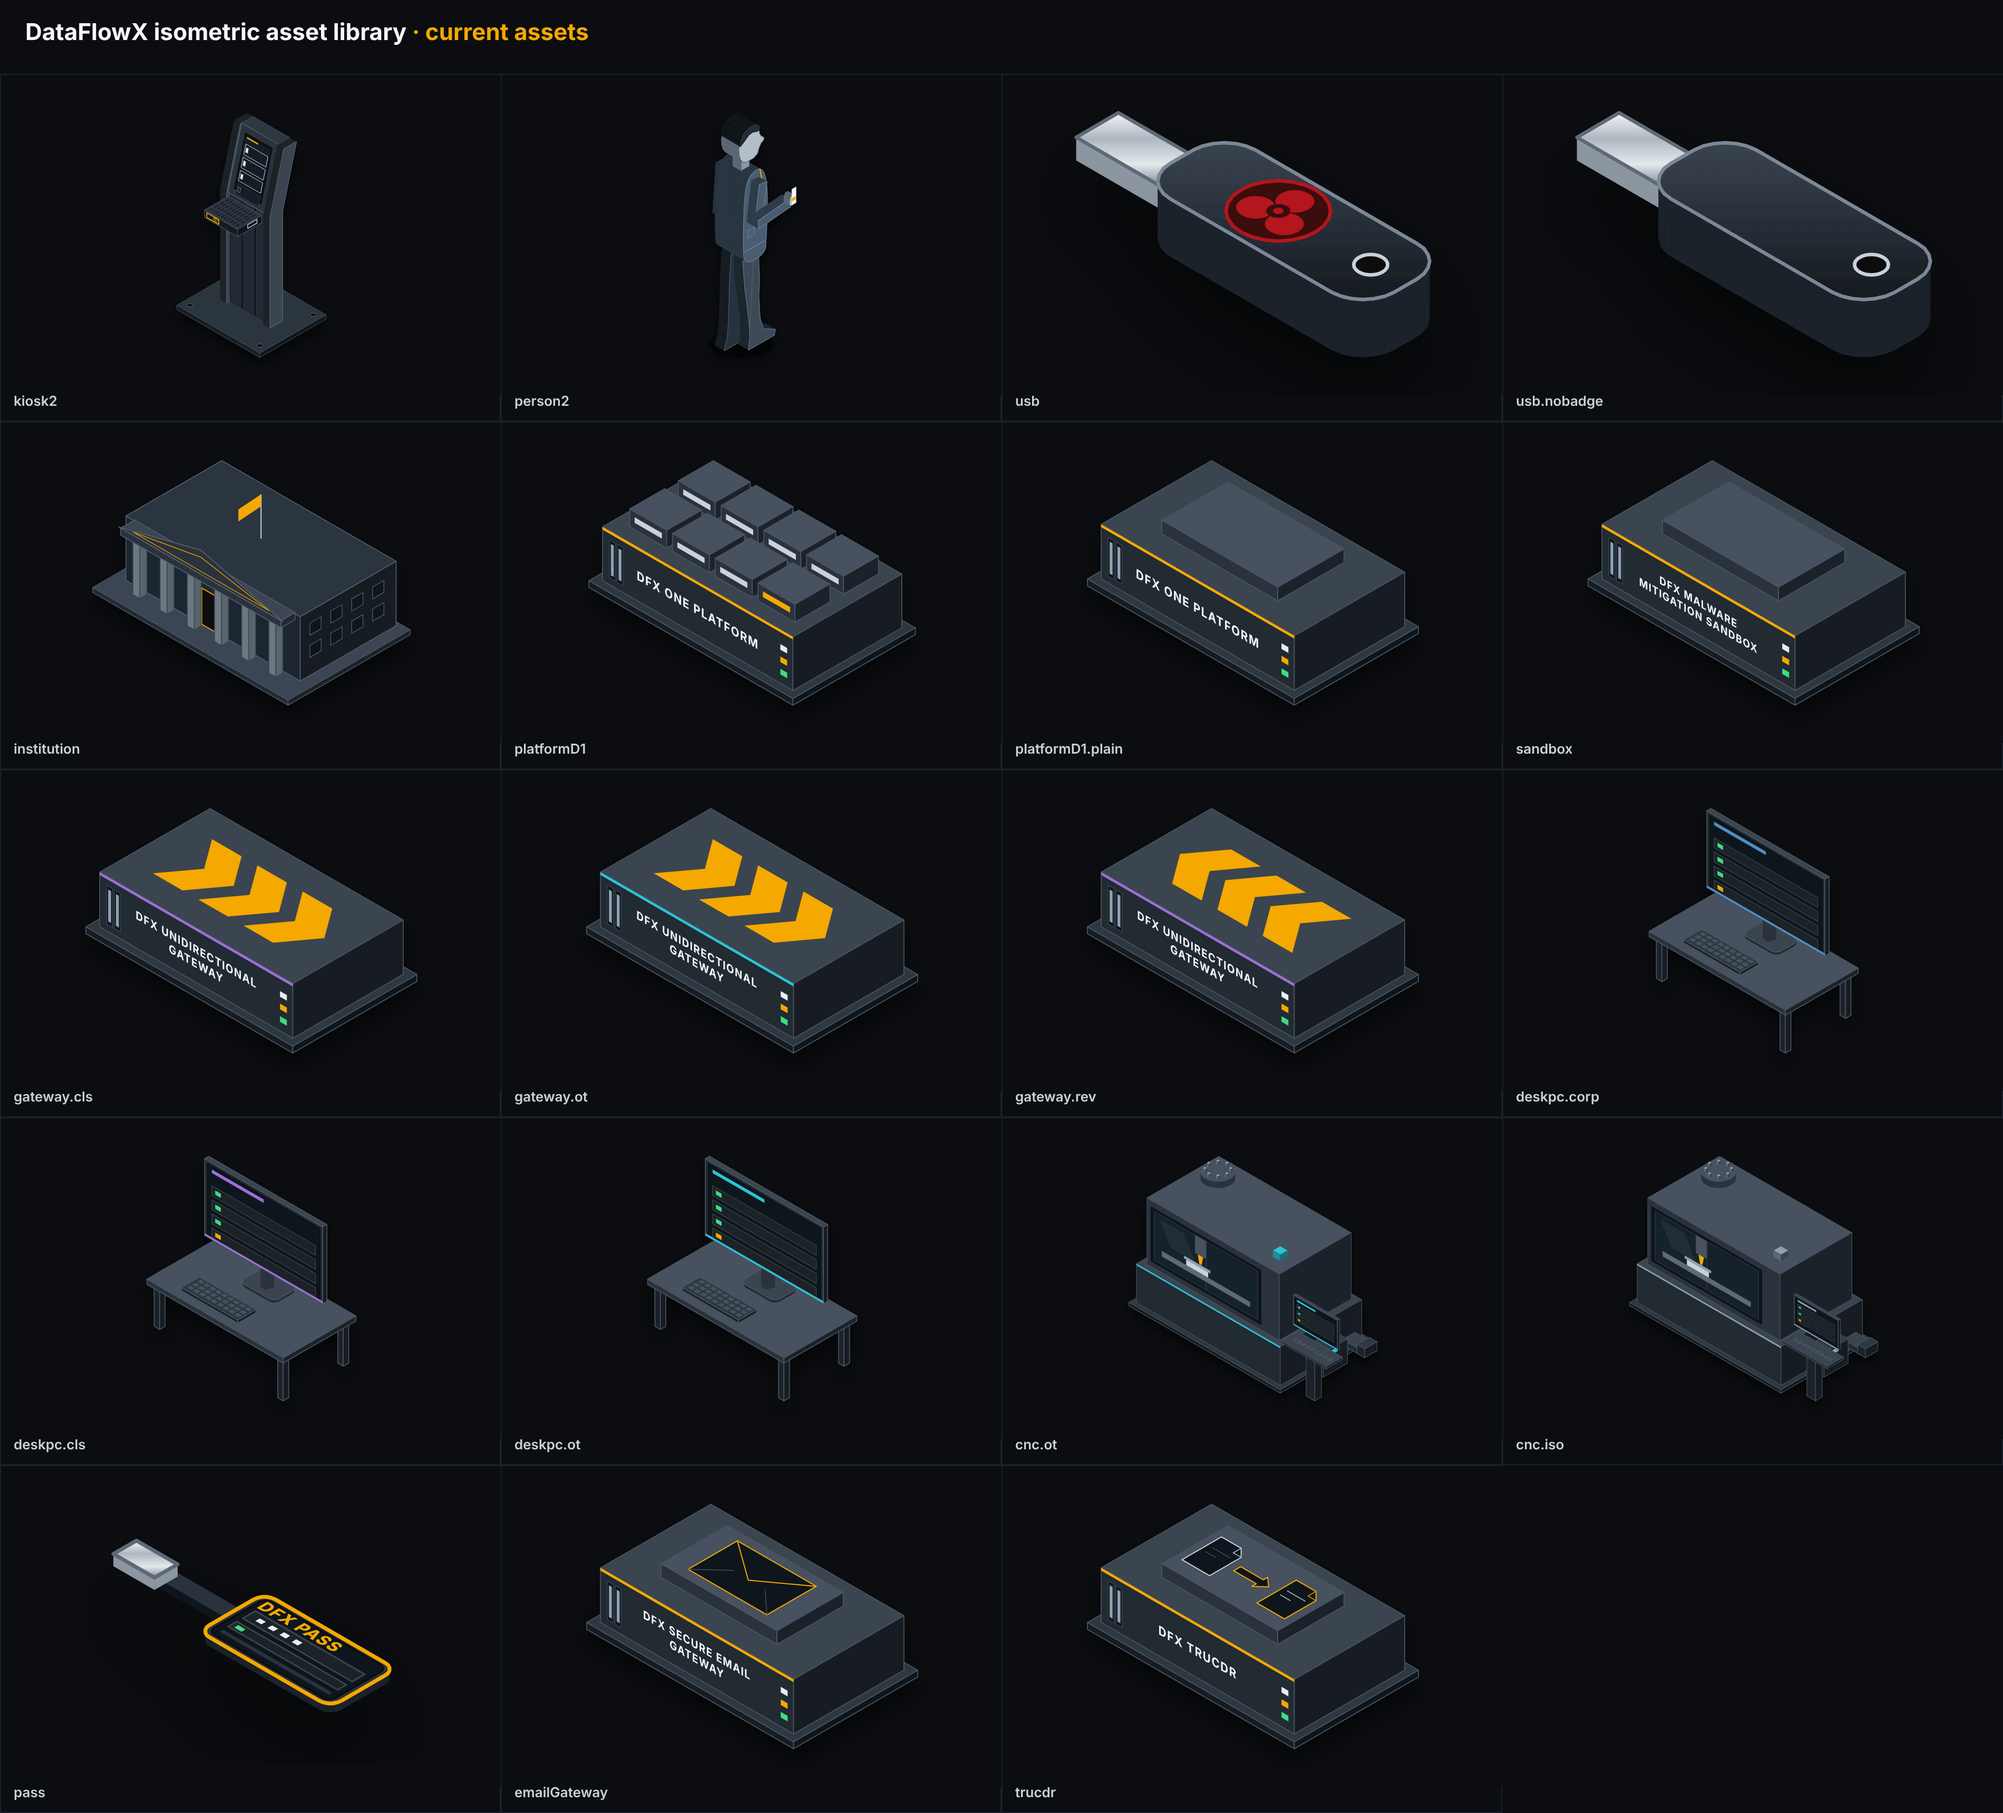
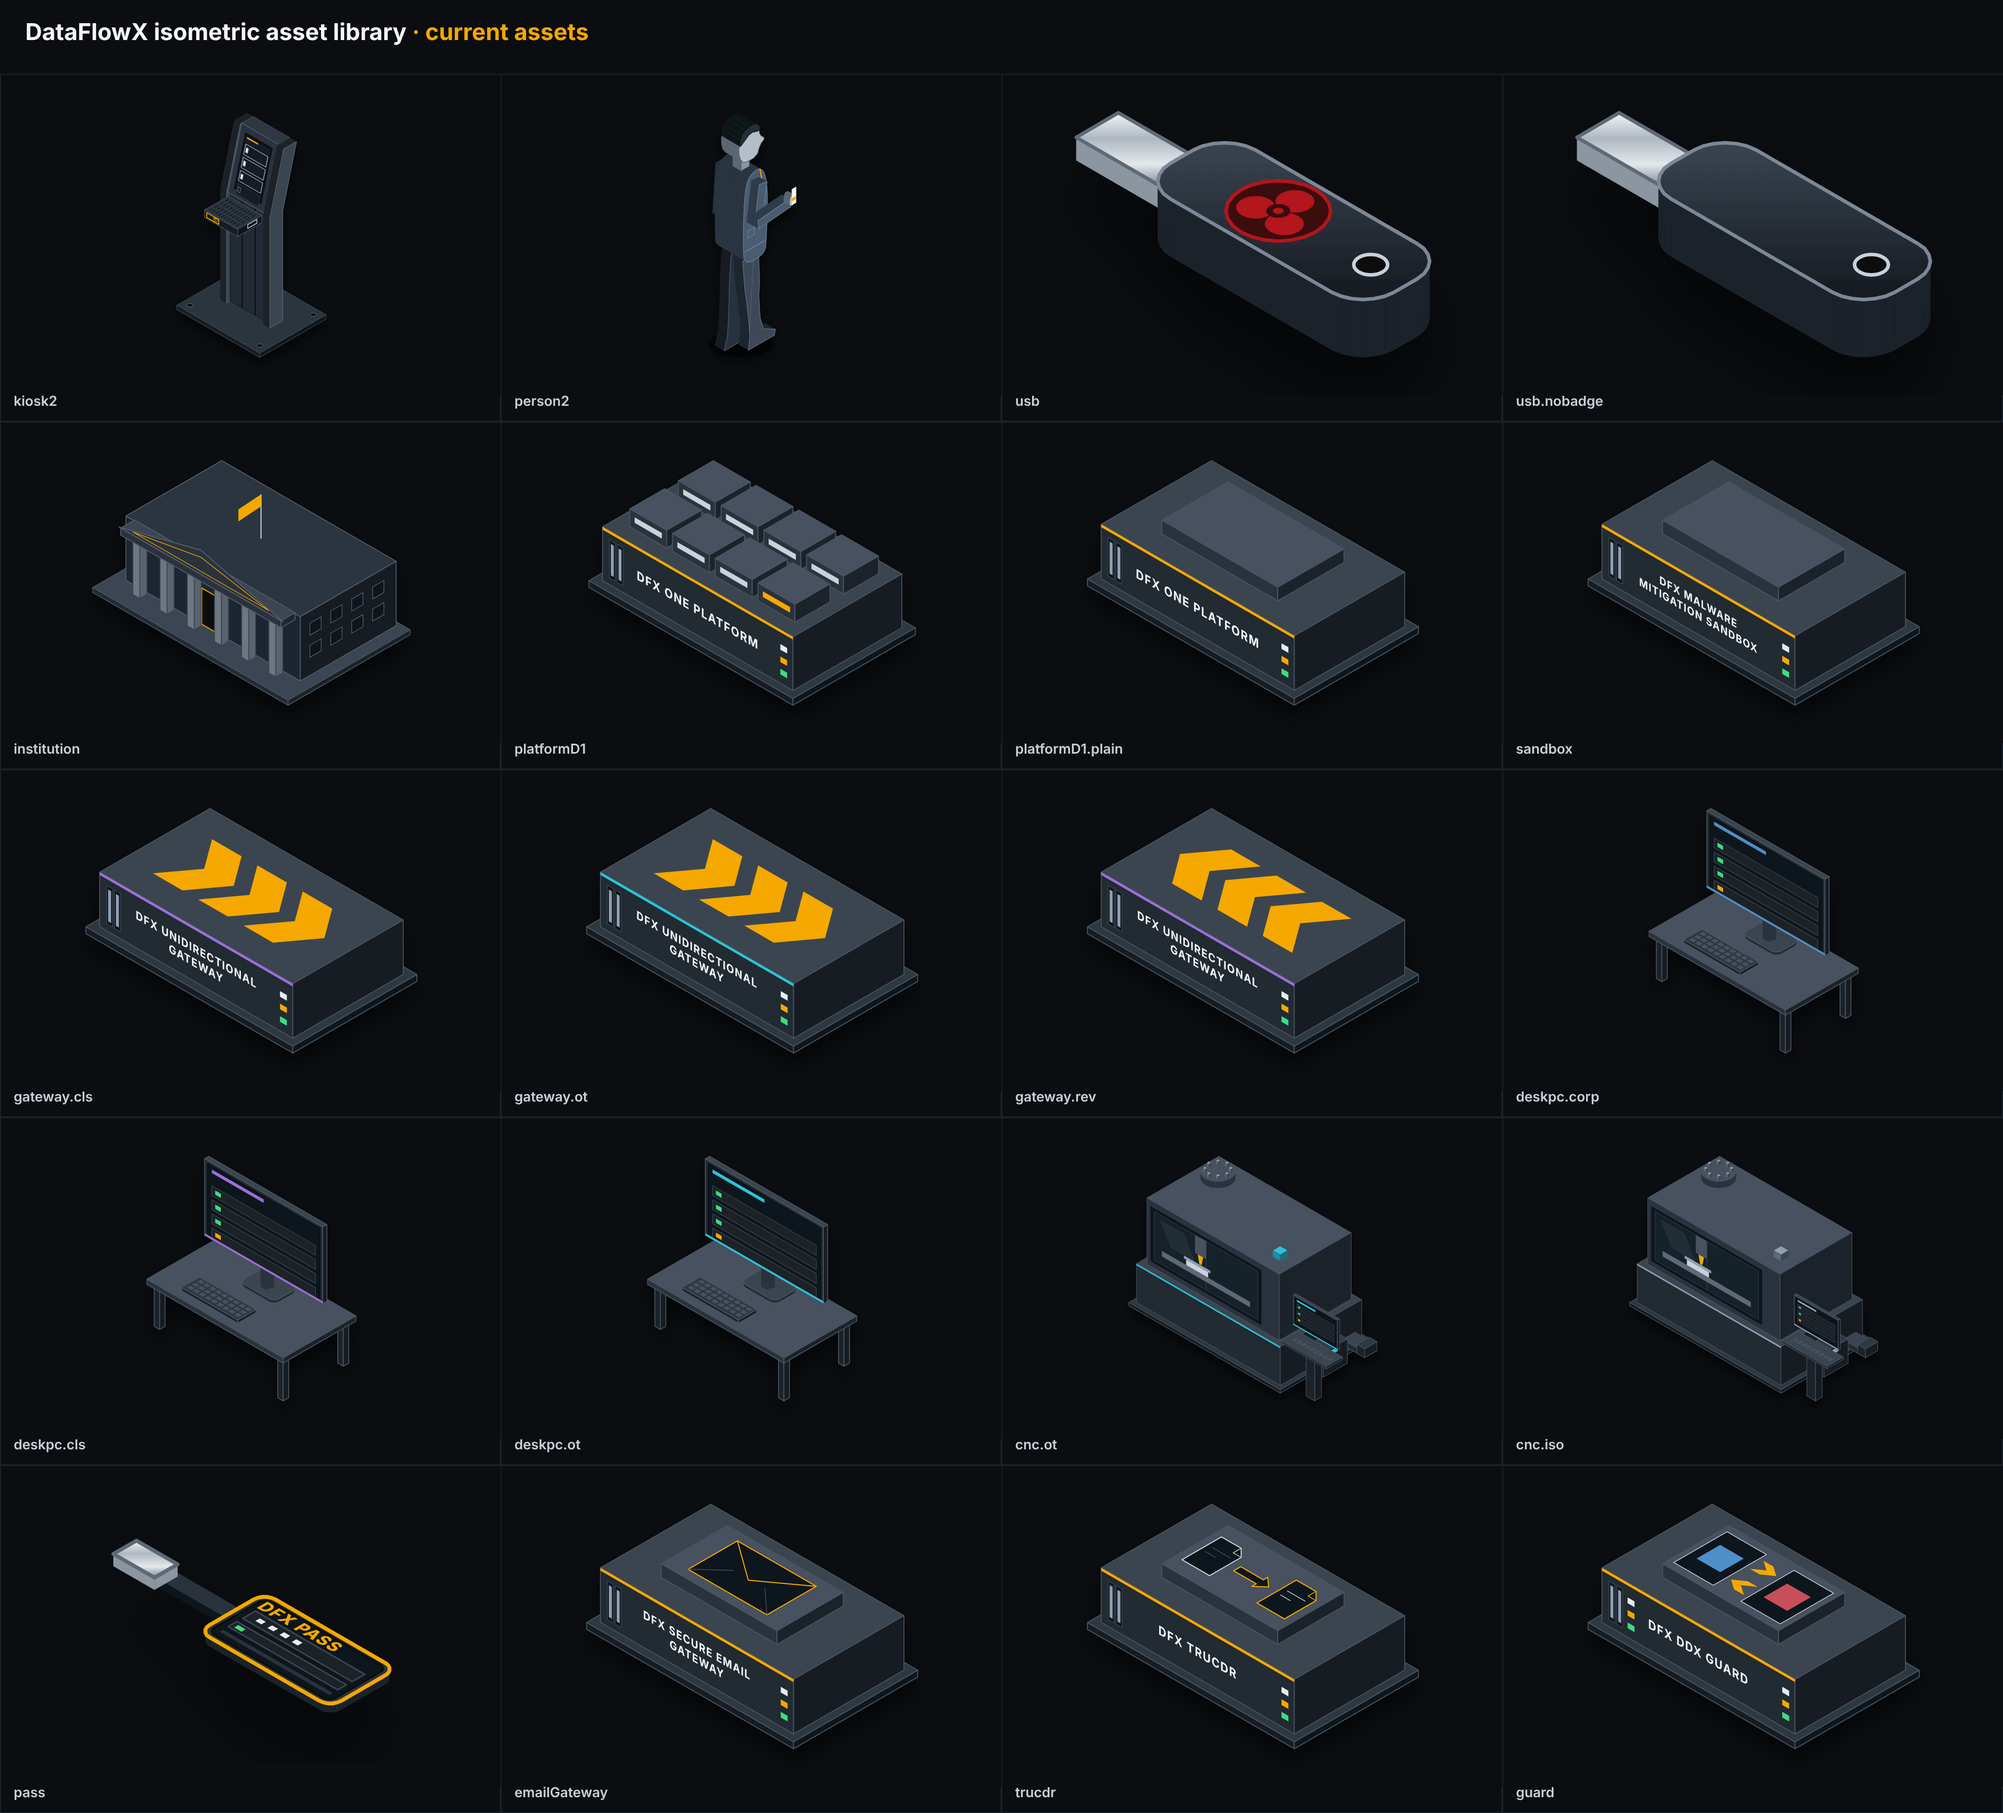
Add guard asset (DFX DDX Guard)
New id: guard (platformD1 body, plate DFX DDX GUARD, two zone-colour squares, LED stacks on both ends).
Registers #C8505A second role in tokens.json and a STYLE_GUIDE exception line.
Existing assets unchanged (baseline verified). Lint ALL CLEAN.

Claude-Session: https://claude.ai/code/session_01MvE8LNeTTwFG81mxctigkb

Changed region(s): [[0.7763, 0.8087, 0.9626, 0.9642]]

diff --git a/Common/iso/iso-lib.js b/Common/iso/iso-lib.js
@@ -583,4 +583,33 @@
     r.glyph = I(ox + xm, oy + ym, zt);
     return r;
   };
+
+  /* DFX DDX Guard (marketing: DFX Guard): platformD1 body, plate DFX DDX GUARD, two System panes on the lid, a zone-colour square on each,
+     one gold chevron each way. An LED stack on BOTH ends of the front face = two separate motherboard systems in one box.
+     opts: zoneA (left, default 'corp'), zoneB (right, default 'red'); keys: corp | cls | ot | red (red = untrusted side, NOT malware). */
+  ISO.assets.guard = function (g, ox, oy, opts) {
+    opts = opts || {};
+    var Z = { corp: '#4F8FC9', cls: '#9B6FD8', ot: '#2CC4D9', red: '#C8505A' };
+    var cA = Z[opts.zoneA] || Z.corp, cB = Z[opts.zoneB] || Z.red;
+    var r = ISO.assets.platformD1(g, ox, oy, { lines: opts.lines || ['DFX DDX GUARD'], fs: opts.fs || 11, mods: 0, rail: opts.rail });
+    var w = 196, d = 112, zt = 6 + 48 + 12 + 0.2, host = g.lastChild, xm = w / 2, ym = d / 2, gh = 14, outer = 54, y0 = 29, y1 = 83;
+    function q(x, y) { return I(ox + x, oy + y, zt); }
+    function poly(pts, fill, stroke, sw) { P(pts.map(function (p) { return q(p[0], p[1]); }), fill, stroke, host, sw); }
+    function sq(cx, s) { var h = s / 2; return [[cx - h, ym - h], [cx + h, ym - h], [cx + h, ym + h], [cx - h, ym + h]]; }
+    [['#3DDC84', 0], ['#F5A800', 1], ['#E6EDF5', 2]].forEach(function (L) {   // left LED stack (platformD1 draws the right one)
+      var zz = 14 + L[1] * 11, lx = 26;
+      P([I(ox + lx, oy + d, zz + 5), I(ox + lx + 7, oy + d, zz + 5), I(ox + lx + 7, oy + d, zz), I(ox + lx, oy + d, zz)], L[0], 'none', host);
+    });
+    poly([[xm - outer, y0], [xm - gh, y0], [xm - gh, y1], [xm - outer, y1]], '#0E131A', '#C9D1DA', 1);   // System A pane
+    poly([[xm + gh, y0], [xm + outer, y0], [xm + outer, y1], [xm + gh, y1]], '#0E131A', '#C9D1DA', 1);   // System B pane
+    poly(sq(xm - (outer + gh) / 2, 24), cA, 'none', 0);
+    poly(sq(xm + (outer + gh) / 2, 24), cB, 'none', 0);
+    function chev(a, y, dir) {
+      var len = 20, hh = 7;
+      poly([[0, -hh], [len / 2, -hh], [len, 0], [len / 2, hh], [0, hh], [len / 2, 0]].map(function (p) { return [dir > 0 ? a + p[0] : a + len - p[0], y + p[1]]; }), '#F5A800', 'none', 0);
+    }
+    chev(xm - 10, ym - 13, +1); chev(xm - 10, ym + 13, -1);
+    r.glyph = I(ox + xm, oy + ym, zt);
+    return r;
+  };
 })(window);

diff --git a/Common/docs/ASSET_CATALOG.md b/Common/docs/ASSET_CATALOG.md
@@ -19,6 +19,7 @@ Call: `ISO.assets.<fn>(g, ox, oy, opts)`; scale a whole asset with a wrapper gro
 | pass | DFX PASS handheld | current | 32·16·1.9 (+cable) | 9 |
 | emailGateway | DFX Secure Email Gateway | current | 196·112·54 (+12 chamber) | 2 |
 | trucdr | DFX TruCDR | current | 196·112·54 (+12 chamber) | 2 |
+| guard | DFX DDX Guard (marketing: DFX Guard) | current | 196·112·54 (+12 chamber) | 2 |
 | kiosk, person, platformA/B/C/D | superseded | legacy | | |
 
 Legacy assets stay for old renders. NEVER use them in new work and never change them.
@@ -114,3 +115,15 @@ kiosk (v1 rounded slab 140·120·330), person (front view, scale .8), platformA 
 - Core: `platformD1(330,40,{mods:1})`, `sandbox(330,330)`.
 - Gateways: `gateway(980,84,{zone:'cls'})` inbound to Classified, `gateway(980,-626,{zone:'ot'})` to OT.
 - Endpoints at k=1.8: `deskpc(250,-560,{zone:'corp'})`, `deskpc(1380,100,{zone:'cls'})`; `cnc` at k=1.5: `(1330,-700,{zone:'ot'})` and `(1030,-1620,{zone:'iso'})`; PASS on a stand beside the isolated CNC.
+
+## guard : DFX DDX Guard
+- **Route**: composition on `platformD1`, like `trucdr`. Full product name "DFX DataDiodeX Guard"; marketing name "DFX Guard". There is no "DFX Fusion Guard". Plate text, glyph and colours chosen by Burak on 2026-11-22.
+- **Name plate**: `['DFX DDX GUARD']`, one line, Inter 700, fs 11, UPPERCASE (`opts.lines`, `opts.fs`).
+- **Rail**: gold `#F5A800` by default; `opts.rail` for a zone colour per scene.
+- **Two systems**: an extra LED stack (white, gold, green, same size and spacing as the right one) sits on the left end next to the bays, so BOTH ends carry LEDs = two separate motherboard systems in one box (System A left, System B right).
+- **Lid**: default glass chamber (top at z 66), glyph at z 66.2: two System panes (x 44..84 and 112..152, y 29..83, `#0E131A` fill, 1 px `#C9D1DA` outline, 28 gap) each with a centred 24 x 24 filled square in a zone colour, and in the gap one gold chevron each way (20 long, at y = centre -/+ 13).
+- **opts**: `zoneA` (left, default `corp` `#4F8FC9`), `zoneB` (right, default `red` `#C8505A`), keys `corp | cls | ot | red`; `lines`, `fs`, `rail`. `red` = untrusted side, NOT malware (threat red `#B3121F` stays malware-only).
+- **Returns** (screen): `tops`, `front`, `center`, `glyph` (middle of the gap).
+- **Colours**: tokens only. The `#C8505A` quarantine token gets a second role; zone-colour squares on the lid are a new, deliberate use (STYLE_GUIDE section 4).
+- **Placement**: same footprint as the other appliances; scale with `sc()`.
+- **Preview**: `iso/previews/guard.png`.

diff --git a/Common/docs/STYLE_GUIDE.md b/Common/docs/STYLE_GUIDE.md
@@ -48,7 +48,7 @@ Tokens live in `tokens.json`. Quick map:
 - Block faces (top/left/right/edge): default `#3A444F / #222A32 / #161C22 / #4A5560`; lids/modules `#46515E / #2A323C / #1D232A`; base plates `#2E3741 / #171C22 / #10141A`. Pick a group, do not mix faces of different groups on one block.
 - Screens: glass `#0E131A` panel, `#0A0F15` outer, border `#0B0D10` 2 px, content rows `#1A2027`/`#161D25` with 1 px `#3A444F` stroke; ON row stroke `#E6EDF5`, OFF `#33404C`. Status square `#3DDC84` (ok) or `#F5A800` (current/attention).
 - Metal highlights: `#C9D1DA` strips (module slots), `#8FA0B3` bay slots, `steel` gradient for plugs/connectors only.
-- Zone colours (`#4F8FC9` Corporate, `#9B6FD8` Classified, `#2CC4D9` OT, `#8FA0B3` Isolated): used on (a) a 2-3 unit rail along the top edge of the front face (platform/gateway/CNC base), (b) a 2 unit bezel stripe under a monitor, (c) the screen header bar (0.05 height), (d) a CNC lamp. Nothing else.
+- Zone colours (`#4F8FC9` Corporate, `#9B6FD8` Classified, `#2CC4D9` OT, `#8FA0B3` Isolated): used on (a) a 2-3 unit rail along the top edge of the front face (platform/gateway/CNC base), (b) a 2 unit bezel stripe under a monitor, (c) the screen header bar (0.05 height), (d) a CNC lamp. Nothing else, with one exception: the `guard` lid carries two 24 x 24 zone-colour squares (one per system, `opts.zoneA/zoneB`; right default is `#C8505A` = untrusted side, not malware).
 - Threat `#B3121F` only for malware/threat (USB trefoil). Clean `#3DDC84` only for ok/LED/tick.
 - Never: pure black fills, pure white (except 3.5-6 % glare), saturated colours on bodies, new greys. Greys differ by <= 0x10 per step; use the ramps.
 

diff --git a/Common/README.md b/Common/README.md
@@ -6,7 +6,7 @@
 - Naming on screen: DFX Media Transfer Station, DFX One (Platform), DFX TruCDR, DFX Malware Mitigation Sandbox, DFX Unidirectional Gateway, DFX PASS. Third network = **Industrial OT** in speech, **OT** on screen.
 
 ## iso/iso-lib.js
-`ISO.I(x,y,z)` projects world coordinates to the screen; `ISO.assets.<name>(group, x, y, opts)` draws an asset. Current: `kiosk2`, `person2`, `usb`, `institution`, `platformD1`, `sandbox`, `gateway`, `deskpc`, `cnc`, `pass`, `emailGateway`, `trucdr`. Legacy (old renders only): `kiosk`, `person`, `platformA/B/C/D`. Assets are resized by scaling their group about a ground anchor. Text on floors/faces uses matrix transforms. Flow arrowheads are drawn flat on the floor.
+`ISO.I(x,y,z)` projects world coordinates to the screen; `ISO.assets.<name>(group, x, y, opts)` draws an asset. Current: `kiosk2`, `person2`, `usb`, `institution`, `platformD1`, `sandbox`, `gateway`, `deskpc`, `cnc`, `pass`, `emailGateway`, `trucdr`, `guard`. Legacy (old renders only): `kiosk`, `person`, `platformA/B/C/D`. Assets are resized by scaling their group about a ground anchor. Text on floors/faces uses matrix transforms. Flow arrowheads are drawn flat on the floor.
 
 ## Documentation for agents (start at `docs/README.md`)
 `docs/STYLE_GUIDE.md` (strict rules), `docs/ASSET_CATALOG.md` (exact specs of every asset), `docs/NEW_ASSET_PLAYBOOK.md` (how to add a product such as DFX SEG), `docs/SCENE_AND_UI_SPEC.md` (environments, popups, captions, timing); machine-readable `iso/tokens.json`, `iso/asset-manifest.json`, `iso/baseline-hashes.json`; previews in `iso/previews/_sheet.png`.

diff --git a/README.md b/README.md
@@ -4,7 +4,7 @@ DataFlowX marketing production kit: reusable assets and one folder per video/pro
 
 ```
 Common/                          shared by every project
-  iso/iso-lib.js                 isometric SVG asset library (kiosk2, person2, USB, institution, DFX One platform, sandbox, gateway, desk PC, CNC, PASS, Secure Email Gateway, TruCDR)
+  iso/iso-lib.js                 isometric SVG asset library (kiosk2, person2, USB, institution, DFX One platform, sandbox, gateway, desk PC, CNC, PASS, Secure Email Gateway, TruCDR, DDX Guard)
   iso/tokens.json                design tokens (colours, face groups, strokes, type); iso/asset-manifest.json asset registry; iso/baseline-hashes.json regression hashes
   iso/previews/                  _sheet.png (all current assets) + one PNG per asset (clean | anchors | map scale)
   iso/templates/                 worked example for a new product asset (proposal)
